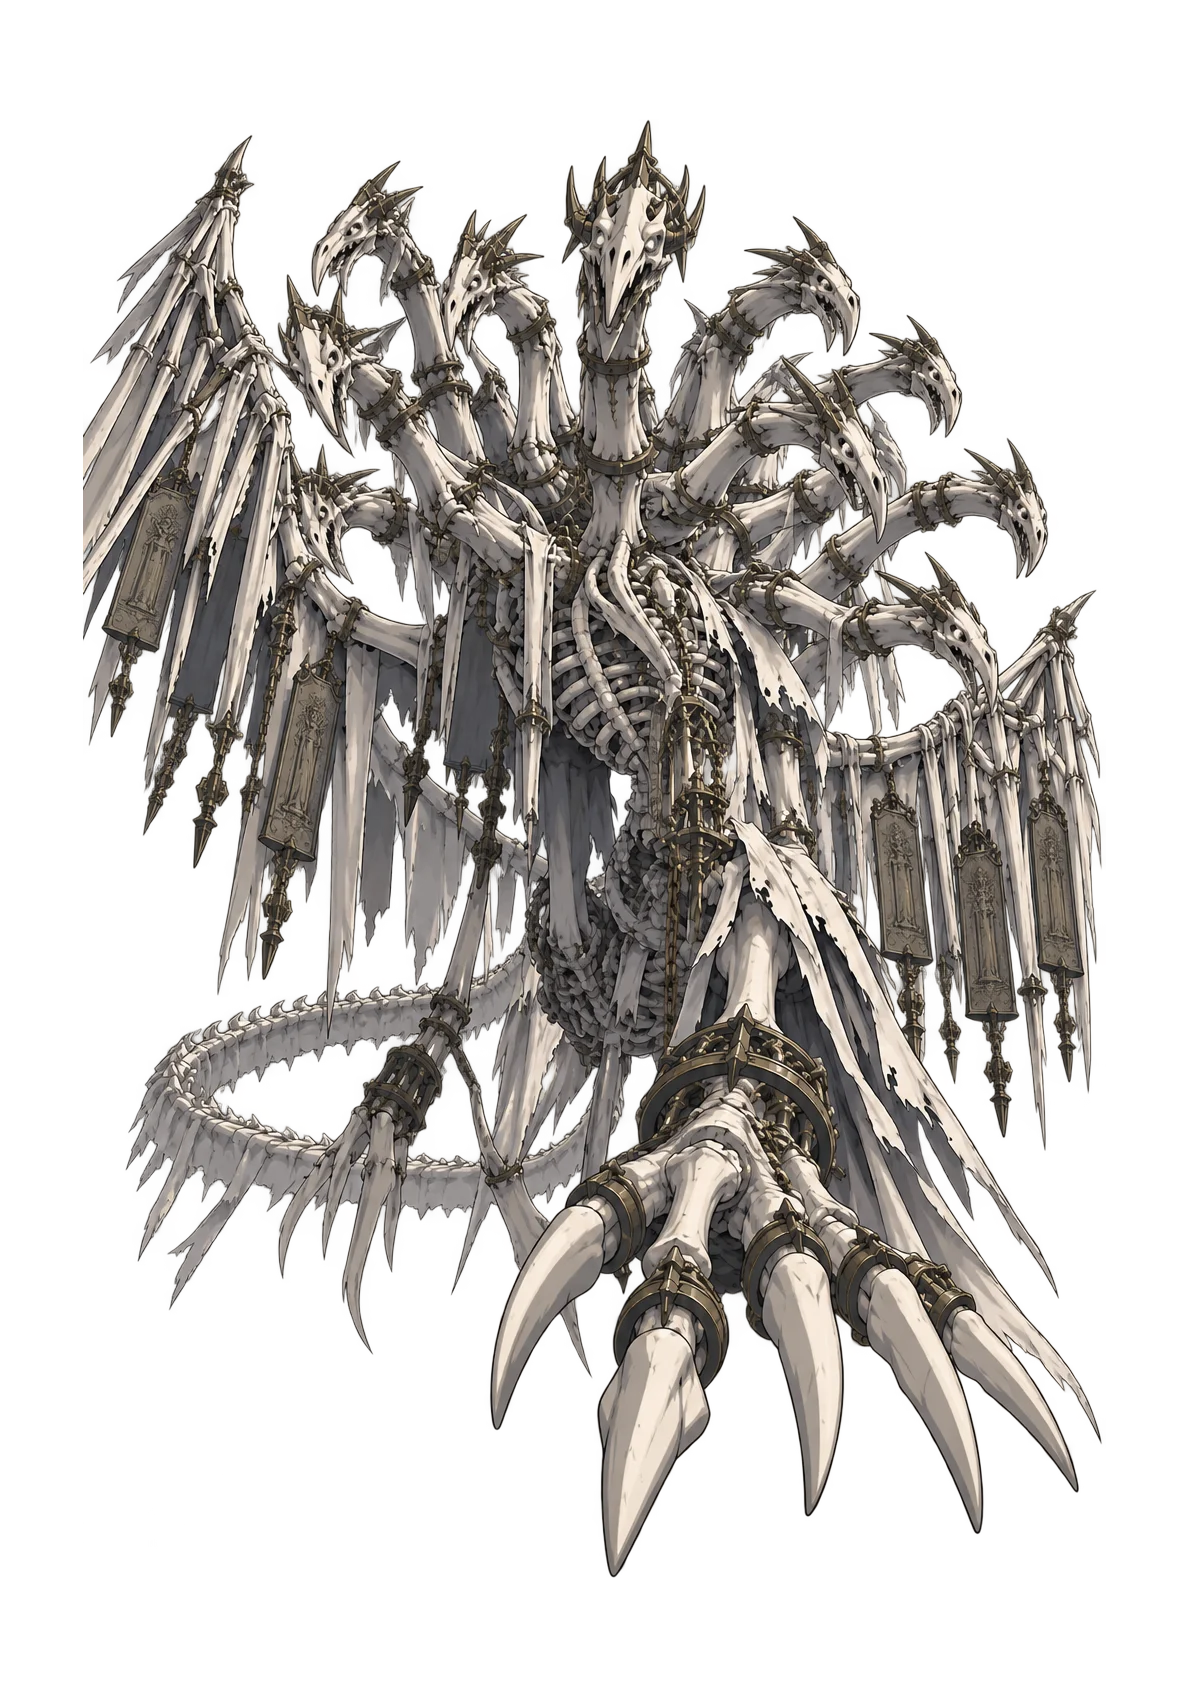
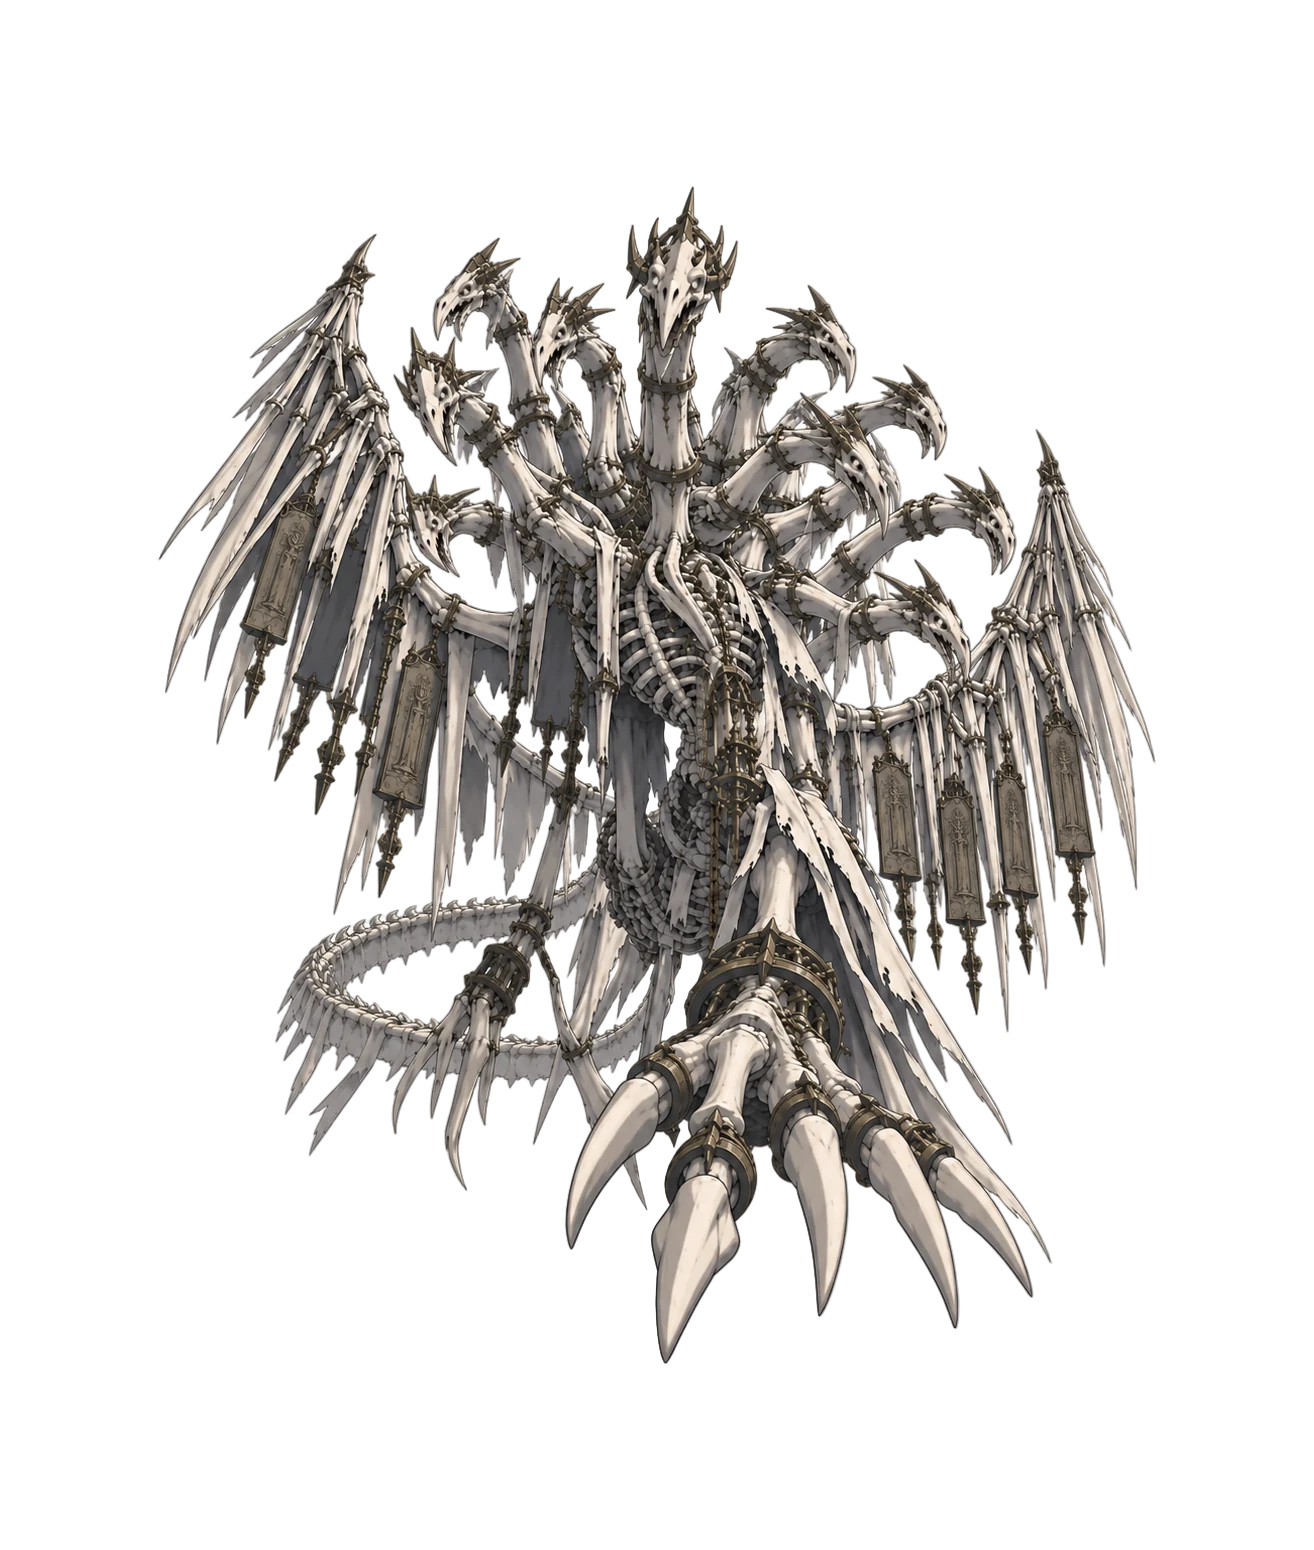
art(守墓者): seal 與 many 重製 —— 兩張的翅膀都被裁過
Ray：「守墓者翅膀又被裁」「叫 gpt 重繪被裁的 翅膀都被切了」

⚠⚠⚠ 「被裁」要量 bbox 邊上最長的一條直線，不要看有沒有壓在畫布邊上：
  seal 上緣 4.9%   many 左緣 11.2%   其餘四張 0.1~1.5% ✔
我第一次只用「有沒有不透明像素壓在畫布邊」去判 ⇒ 只抓到 seal。
many 是被裁過「再補白到 7% 餘裕」的，畫布邊乾乾淨淨，那個判準看不見它。
Ray 一眼就看出來。以後判裁切一律量直線長度。

交件：
  seal 1024x1536  碰畫布 0 px  餘裕 11.5/12.2/10.4/10.4%
  many 1314x1550  碰畫布 0 px  餘裕四邊各 12.0%

⚠⚠ many 多做了一步本機補白：GPT 重畫那版切口已修好（11.2% → 0.3%），
但主體佔 95% 寬、左右只剩 1.9~3.0%。既然沒被裁，補白是無損的 ——
內容置中貼進 內容/0.76 的新畫布即可，不必再賭一次重畫（重畫會動到設計）。

⚠ 提示詞有效的那一句是明寫失敗長什麼樣（「翼尖快碰到邊就是錯的，
寧可畫小一點」）。只寫「四邊留 7%」不夠：第一次畫出來是 2.8%。

驗收：近白 0.04%／0.08%，邊緣亮度超出 -77.5／-75.5
（校準 crypt -59.9、舊 many -90.0），4x 深色棋盤複核無白邊。

⚠ 程式端：ASSET_VER 加 'mon_gravekeeper_seal': 2, 'mon_gravekeeper_many': 2。
  many 的畫布比例變了（1190x1697 → 1314x1550）—— 有寫死長寬比的地方要一起看。

diff --git a/resources/enemy/_gravekeeper_handoff.md b/resources/enemy/_gravekeeper_handoff.md
@@ -75,3 +75,59 @@
 - ⚠⚠ **補白改成「把畫布撐大」，不再縮小內容**（`tools/mon_pad.py`，ver -1630 改）：
   cel 圖是硬邊，0.86 倍縮放會在邊上振鈴 —— 實測 LANCZOS 9.05／BOX 8.77／BICUBIC 8.01，
   全部比原圖的 6.87 還髒；BILINEAR 6.73 是靠糊掉換的，而「模糊」正是這次要修的東西。
+
+
+---
+
+# ⭐ 被裁的兩張重製（ver -1670 後，Ray 交辦）
+
+> Ray：「順便把守墓者被裁的圖重製」→「守墓者翅膀又被裁」→「叫 gpt 重繪被裁的 翅膀都被切了」
+
+## ⚠⚠⚠ 「被裁」量得出來，不要用眼睛猜：**bbox 邊上最長的一條直線**
+
+自然的輪廓只會在**少數幾點**碰到自己的 bbox；被裁過（再補白）的會沿著 bbox 留下**一長條直線**。
+
+    mon_gravekeeper_seal   上緣 4.9%   ⛔ 頭頂被切
+    mon_gravekeeper_many   左緣 11.2%  ⛔ 左翼被切   ← ⚠ 這一張我第一次漏了
+    crypt／offset／offset_body／offset_soul   0.1~1.5%  ✔ 乾淨
+
+⚠⚠ **第一次我只用「有沒有不透明像素壓在畫布邊上」去判，結果只抓到 `seal`** ——
+`many` 早就被裁過**再補白到 7% 餘裕**，畫布邊上乾乾淨淨，那個判準看不見它。
+**Ray 一眼就看出來**（「翅膀都被切了」）。⇒ **以後判裁切一律量 bbox 邊上的直線長度。**
+
+## 交件
+
+| | 舊 | 新 |
+|---|---|---|
+| `mon_gravekeeper_seal` | 1024×1536，上緣切口 4.9% | 1024×1536，**碰畫布 0 px**，餘裕 上11.5／下12.2／左10.4／右10.4% |
+| `mon_gravekeeper_many` | 1190×1697，左緣切口 11.2% | 1314×1550，**碰畫布 0 px**，餘裕四邊各 **12.0%** |
+
+**作法**：GPT 重繪（主體不變、只修構圖）→ ToonOut 去背。
+
+⚠⚠ **`many` 多做了一步「本機補白」**：GPT 重畫的那一版**切口已經修好**
+（bbox 邊上最長直線 11.2% → 0.3%），但主體佔到 **95% 寬**、左右只剩 1.9~3.0%。
+既然**沒有被裁**，補白邊是**無損**的 —— 把內容置中貼進 `內容/0.76` 的新畫布就好，
+**不必再賭一次重畫**。（重畫會動到設計，補白不會。）
+
+⚠ 提示詞真正有效的那一句是**明寫失敗長什麼樣**：
+「⚠ 失敗長這樣：翼尖快碰到邊、或邊緣有一條筆直的切口。**那樣就是錯的。**
+  寧可畫小一點多留白 —— 留白不會扣分，貼邊會。」
+只寫「四邊各留 7%」不夠：第一次它畫出來是 2.8%，第二次寫了「主體只佔 76%」才到 10~12%。
+
+## 驗收
+
+    新 seal  近白 0.04%  邊緣亮度超出 -77.5
+    新 many  近白 0.08%  邊緣亮度超出 -75.5
+    校準 crypt 0.00% / -59.9      校準 many(舊) 0.00% / -90.0
+
+兩張都落在既有那批的範圍內；4× 深色棋盤複核過爪尖與翼尖，沒有白邊。
+
+## ⚠ 程式端要接：`config.js` 的 `ASSET_VER`
+
+兩張都是**同名覆蓋**：
+
+    'mon_gravekeeper_seal': 2,
+    'mon_gravekeeper_many': 2,
+
+⚠ `many` 的**畫布尺寸變了**（1190×1697 → 1314×1550）—— 敵人立繪是 `object-fit` 貼的，
+理論上不必動資料；但**如果有任何地方寫死了那張圖的長寬比，要一起看**。
